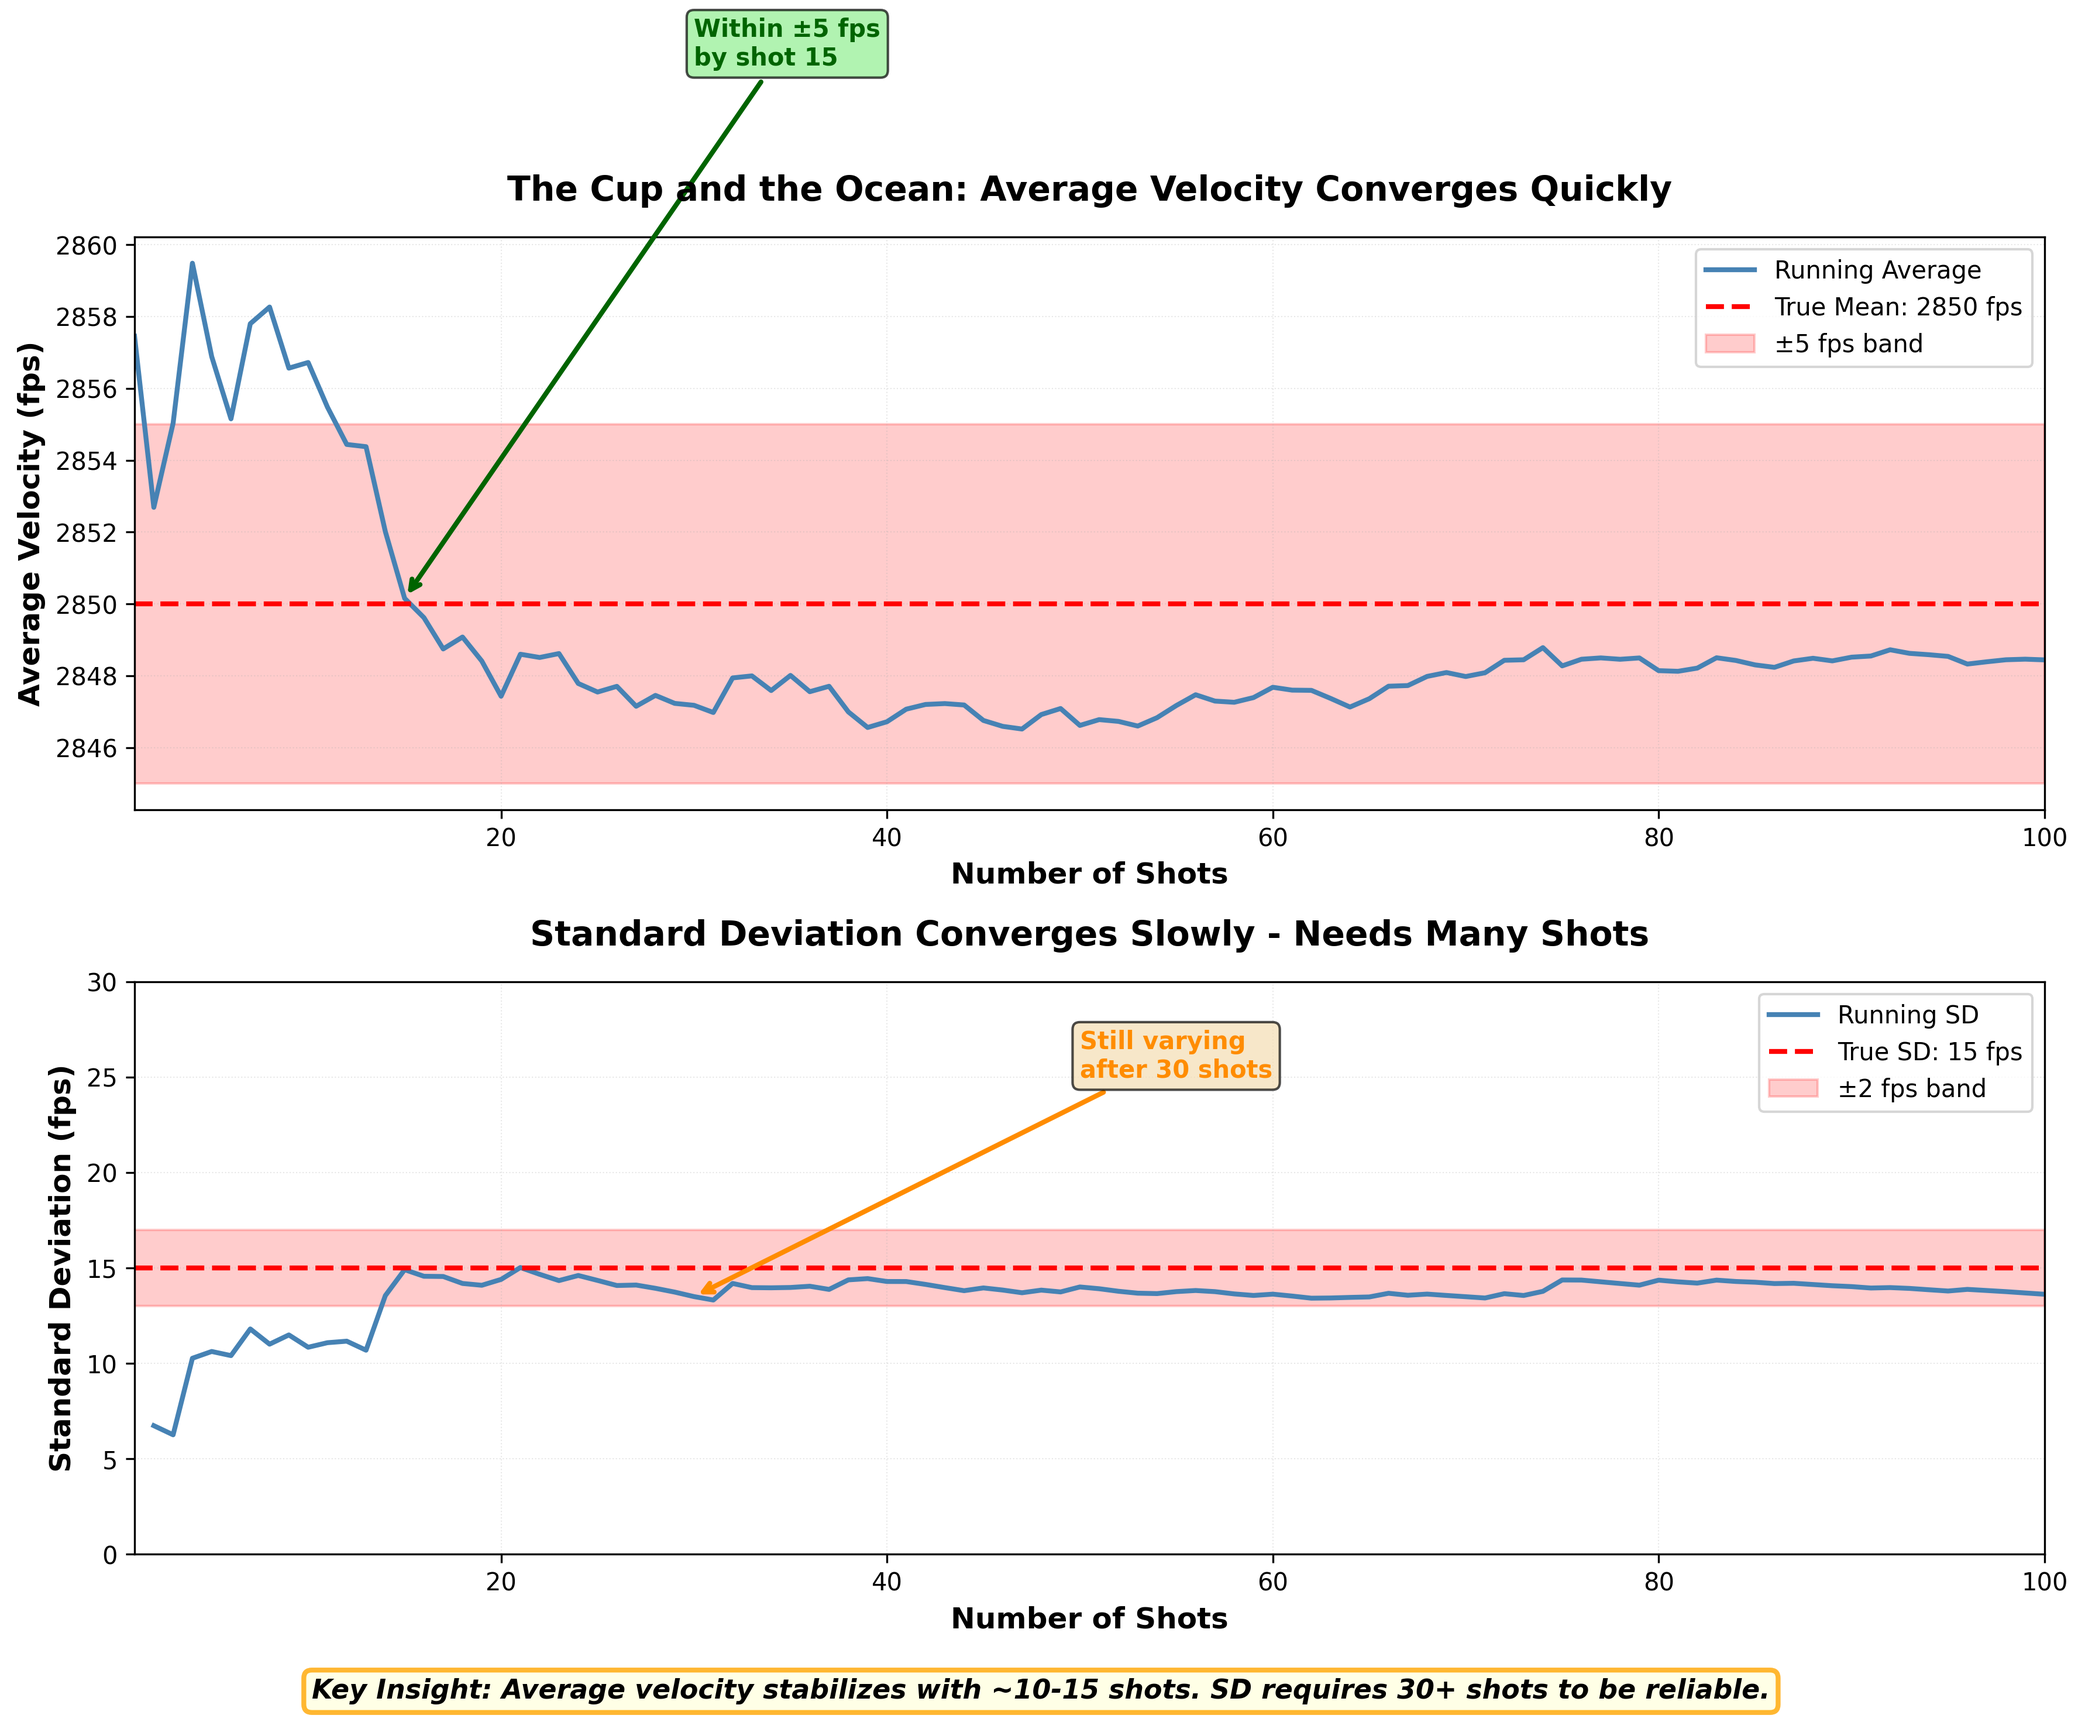
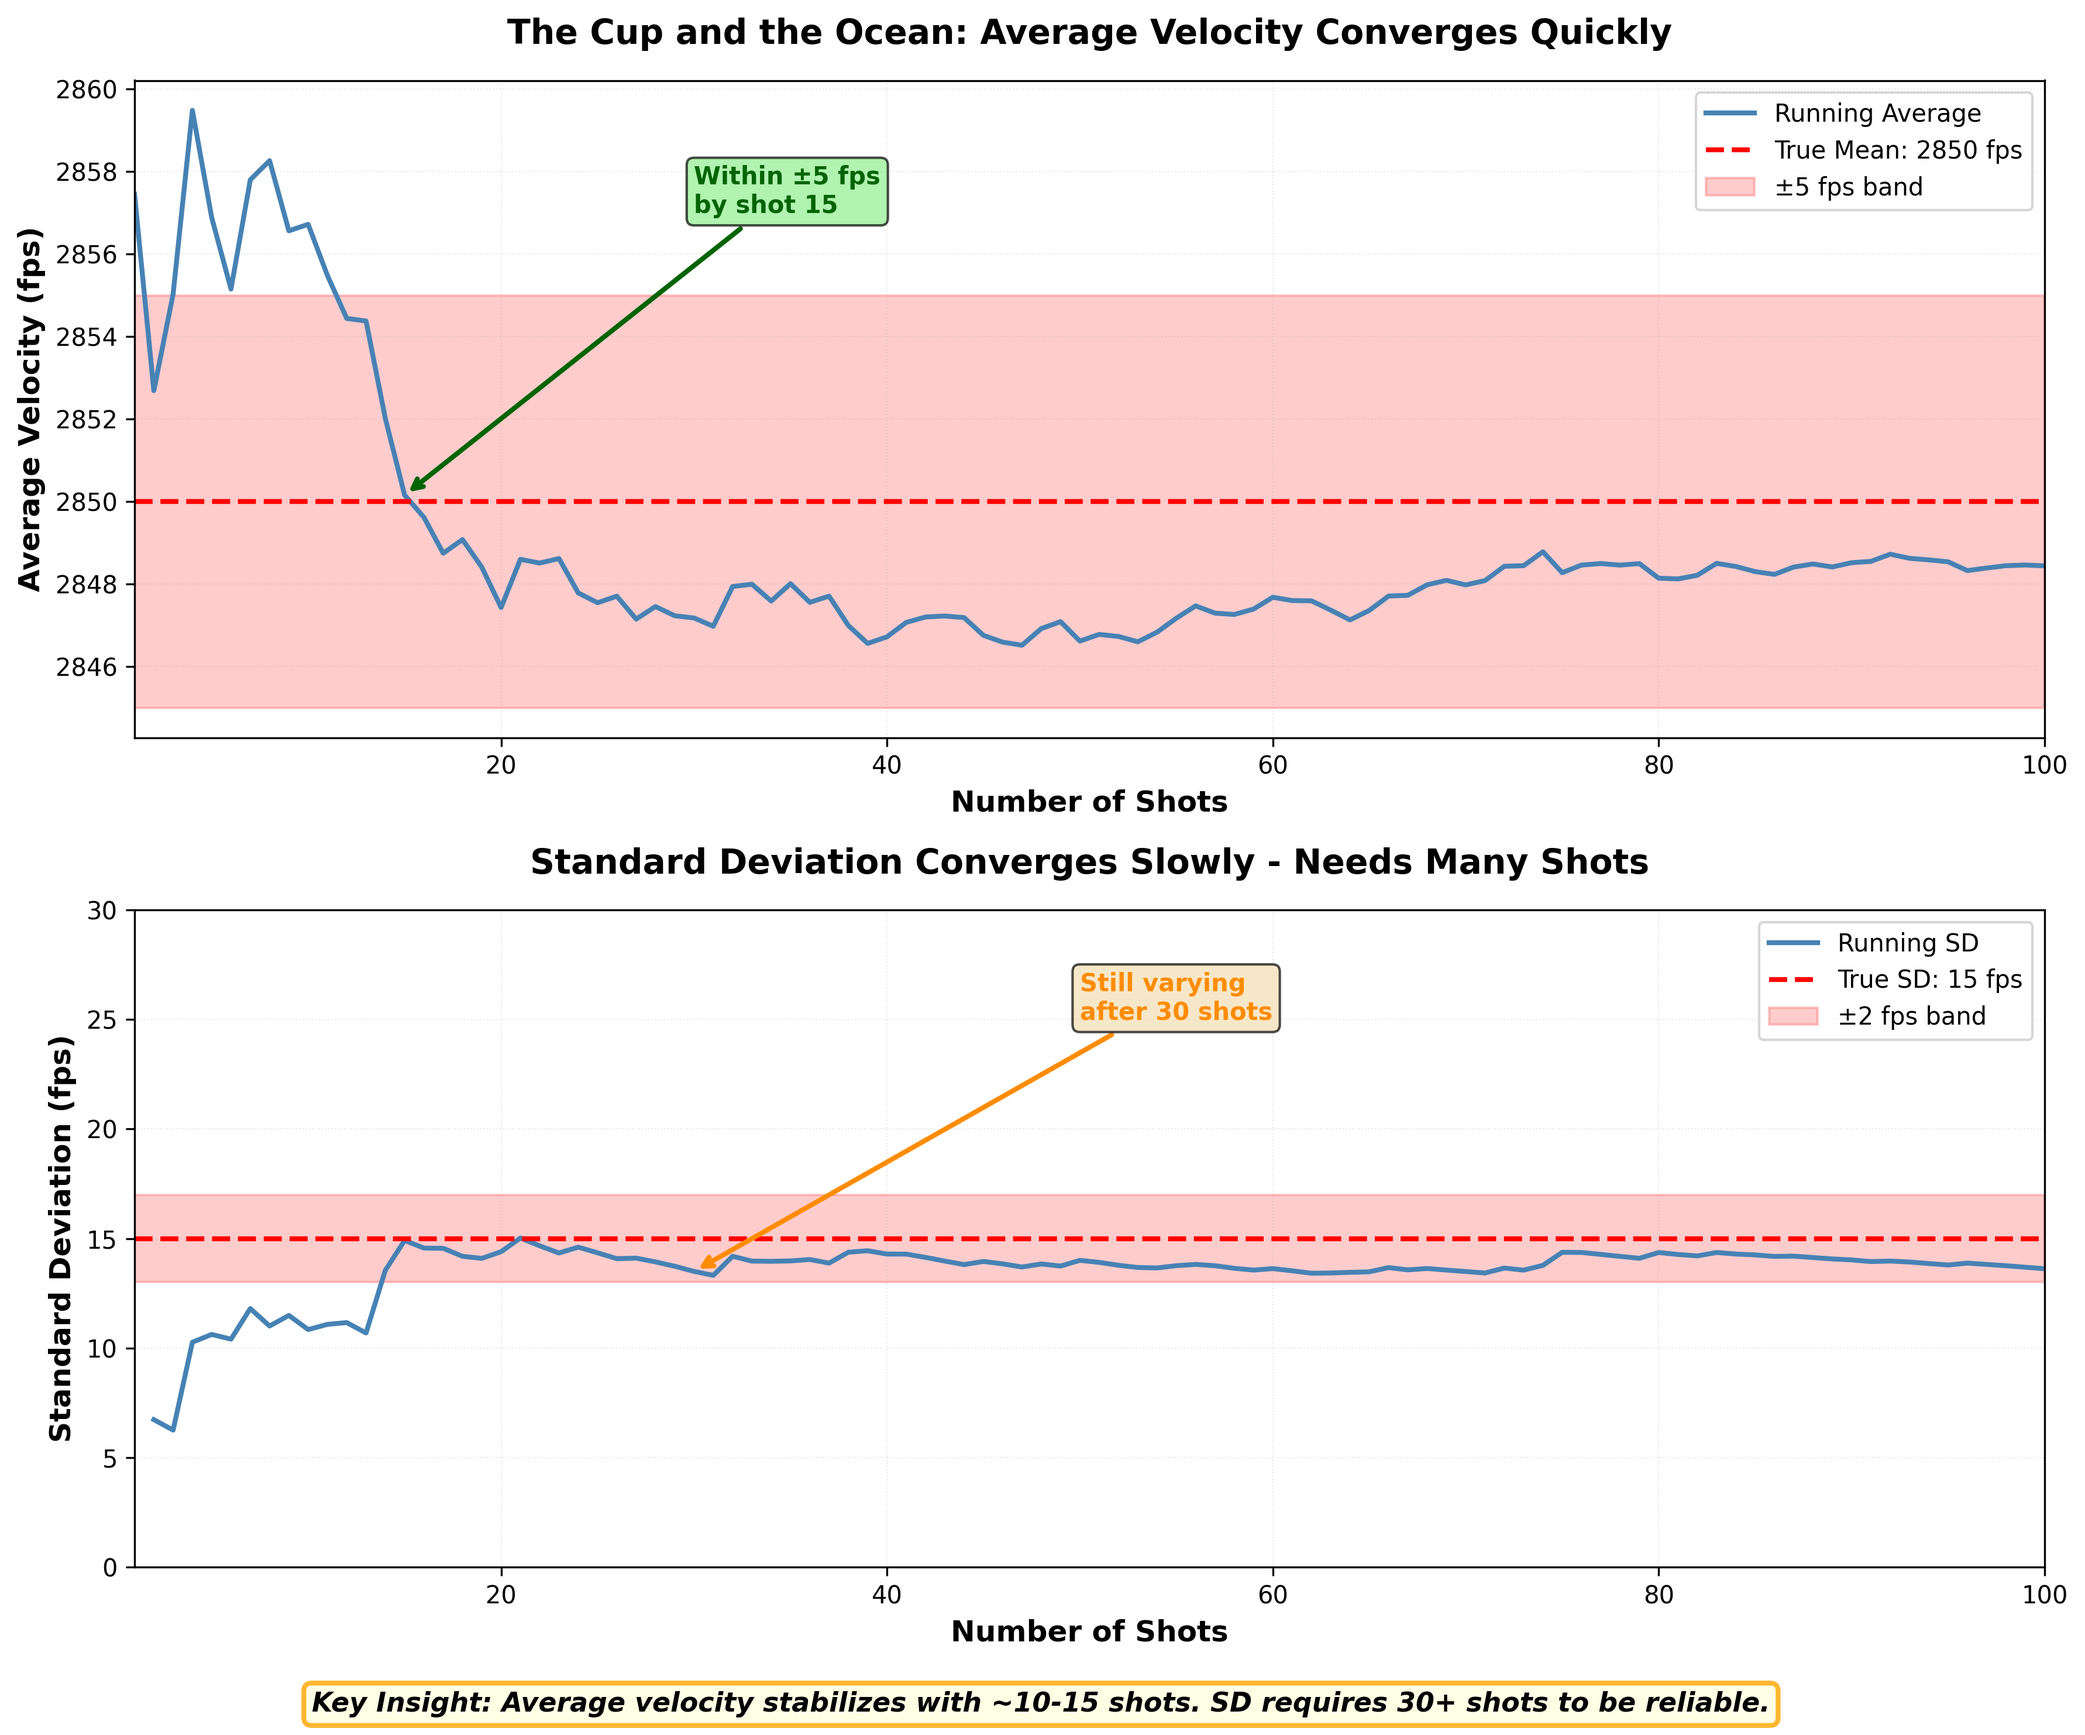
Plot adjustment

diff --git a/scripts/plot_02_08_cup_and_ocean.py b/scripts/plot_02_08_cup_and_ocean.py
@@ -46,7 +46,7 @@ ax1.set_xlim(1, N_SHOTS)
 
 # Add annotation
 ax1.annotate('Within ±5 fps\nby shot 15',
-             xy=(15, running_mean[14]), xytext=(30, TRUE_MEAN + 15),
+             xy=(15, running_mean[14]), xytext=(30, TRUE_MEAN + 7),
              arrowprops=dict(arrowstyle='->', color='darkgreen', lw=2),
              fontsize=10, color='darkgreen', fontweight='bold',
              bbox=dict(boxstyle='round', facecolor='lightgreen', alpha=0.7))
